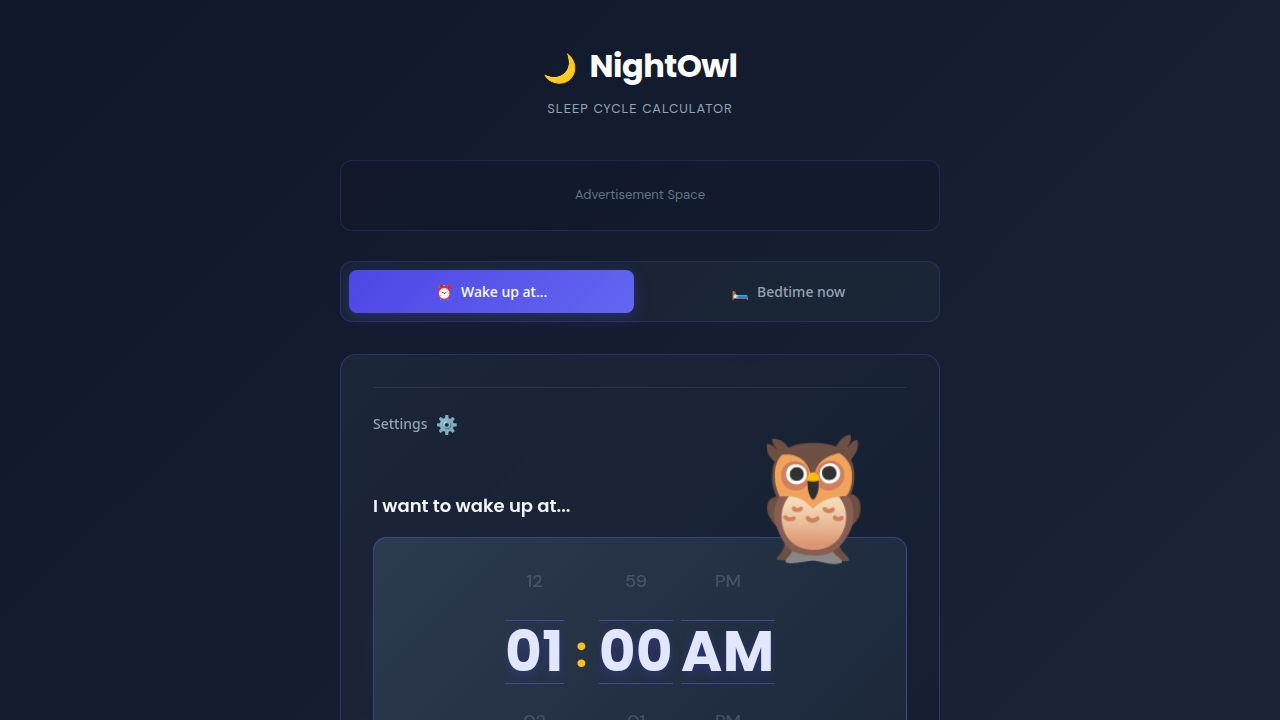
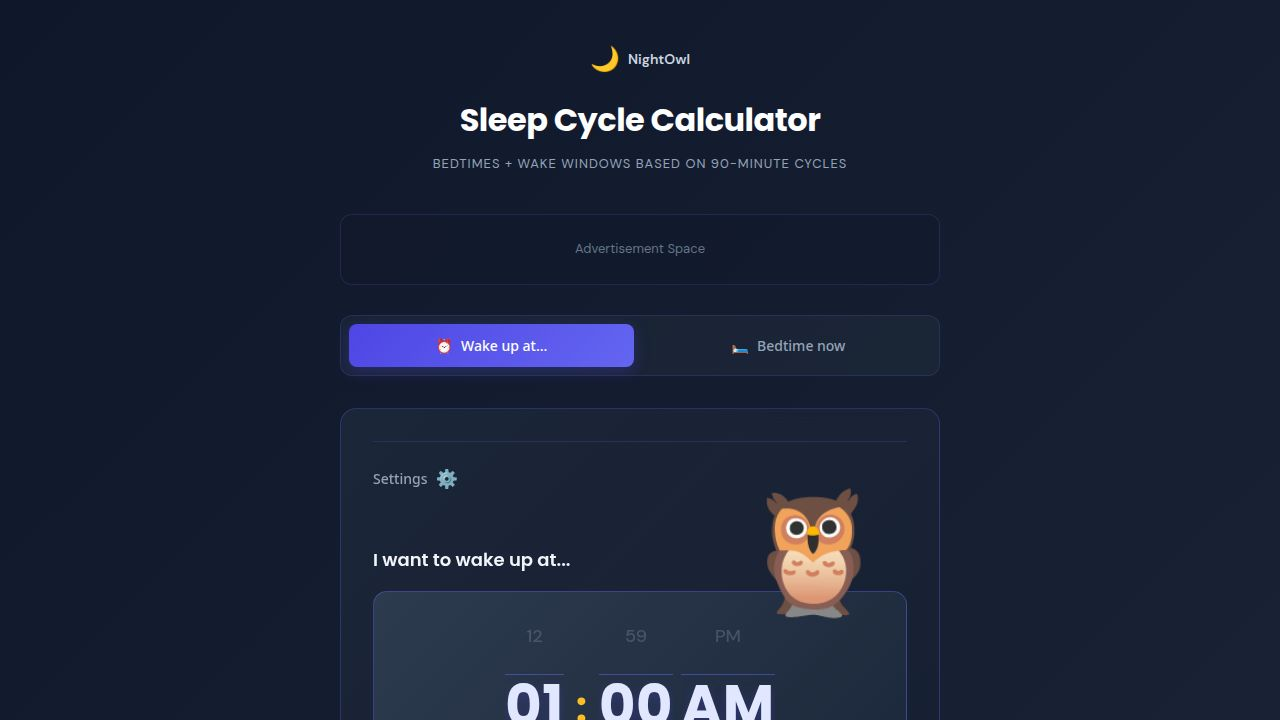
Update header to prioritize sleep cycle calculator as H1
Adjust HTML and CSS to make "Sleep Cycle Calculator" the main H1, with "NightOwl" as secondary branding, and update subtitle text.

Replit-Commit-Author: Agent
Replit-Commit-Session-Id: f031265c-644d-4669-ad32-2f5ae33e2865
Replit-Commit-Checkpoint-Type: full_checkpoint
Replit-Commit-Event-Id: 85e18ed2-b57d-4614-a80d-7b26c76c0761
Replit-Commit-Screenshot-Url: https://storage.googleapis.com/screenshot-production-us-central1/a57929f2-7f0b-46c2-b535-1aa91c424088/f031265c-644d-4669-ad32-2f5ae33e2865/5KQOBFp
Replit-Helium-Checkpoint-Created: true

diff --git a/client/index.html b/client/index.html
@@ -47,11 +47,22 @@
       padding-top: 20px;
     }
 
+    .brand {
+      display: flex;
+      align-items: center;
+      justify-content: center;
+      gap: 8px;
+      margin-bottom: 16px;
+    }
+
     .logo {
-      font-size: 28px;
-      margin-right: 12px;
-      display: inline-block;
-      vertical-align: middle;
+      font-size: 24px;
+    }
+
+    .brand-name {
+      font-size: 14px;
+      font-weight: 600;
+      color: #cbd5e1;
     }
 
     .title {
@@ -61,8 +72,6 @@
       color: #ffffff;
       margin-bottom: 8px;
       letter-spacing: -0.5px;
-      display: inline-block;
-      vertical-align: middle;
     }
 
     .subtitle {
@@ -649,10 +658,11 @@
 <body>
   <div class="container">
     <header>
-      <div>
-        <div class="logo">🌙</div><h1 class="title">NightOwl</h1>
+      <div class="brand">
+        <div class="logo">🌙</div><span class="brand-name">NightOwl</span>
       </div>
-      <p class="subtitle">Sleep Cycle Calculator</p>
+      <h1 class="title">Sleep Cycle Calculator</h1>
+      <p class="subtitle">Bedtimes + wake windows based on 90-minute cycles</p>
     </header>
 
     <div class="ad-space">Advertisement Space</div>
